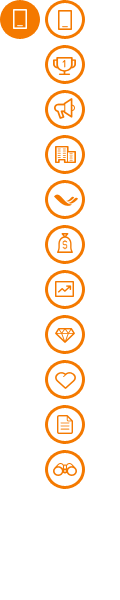
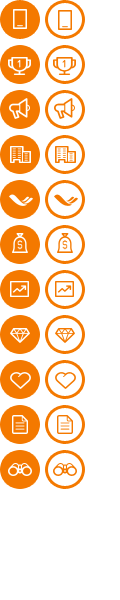
添加新里程碑 & 新闻页面

Changed region(s): [[0.0, 0.06, 0.35, 0.84]]

diff --git a/真旅网官网/news_141229.html b/真旅网官网/news_141229.html
@@ -1,0 +1,69 @@
+<!DOCTYPE html>
+<html lang="en">
+<head>
+    <meta charset="UTF-8">
+    <meta name="renderer" content="webkit|ie-comp|ie-stand">
+    <title>公司新闻</title>
+    <link type="text/css" rel="stylesheet" href="css/common.css">
+    <link type="text/css" rel="stylesheet" href="css/travelzen.css">
+    <script type="text/javascript" src="js/jquery-1.11.2.min.js"></script>
+    <script type="text/javascript" src="js/common.js"></script>
+
+    <!--[if lte IE 9]>
+    <script src="js/html5.js"></script>
+    <![endif]-->
+</head>
+<body>
+    <header class="mainHeader">
+        <div class="headerCon">
+            <a href="index.html" class="logo"></a>
+            <ul class="mainNavBar">
+                <li><a href="home.html">首页</a></li>
+                <li><a href="milestone.html">公司里程</a></li>
+                <li class="currentPage"><a href="news.html">公司新闻</a></li>
+                <li><a href="about.html">关于我们</a></li>
+                <li class="website">
+                    <a href="#">旗下网站</a>
+                    <div class="websiteList">
+                        <div class="shield"></div>
+                        <div id="b2b-website" style="margin-top:-15px;">
+                            <a href="http://www.tdxinfo.com" target="_blank">天地行采购平台</a>
+                        </div>
+                        <div id="b2g-website">
+                            <a href="http://vipcorp.travelzen.com" target="_blank">真旅网差旅平台</a>
+                        </div>
+                    </div>
+                </li>
+            </ul>
+        </div>
+    </header>
+    <!--body start-->
+    <div class="newsBanner">
+        <span class="newsFonts">公司新闻</span>
+    </div>
+    <section class="mainBody">
+        <div class="news-title-wrapper">
+            <div class="news-date">2014年12月29日</div>
+            <div class="titleCont">天地行手机客户端Android V1.0正式上线</div>
+        </div>
+        <div class="news-content">
+             <p>继2014年8月1日天地行手机客户端ios版本上线后，天地行APP android V1.0也于今日正式上线。用户安装后，可通过手机进行白屏建单，直接支付订单。同时，天地行APP也支持用户随时随地在线提交机票退改签申请。简单来说，通过此款手机客户端的应用，用户可轻松实现以下操作：手机电脑实时同步，随时随地处理订单，价格明细清晰全面，退改便捷高效服务，白屏建单一步到位。</p> 
+
+            <p>天地行一站式旅游服务平台已实现PC、APP、微信的“三网合一”，即三个平台信息同步、统一管理，为用户提供更便捷、高效的服务。</p> 
+        </div>
+        <div class="mailToBlock">如您是媒体记者, 并对媒体中心有任何询问, 欢迎您给我们电邮：
+            <a href="mailto:marketing@travelzen.com">marketing@travelzen.com</a>
+        </div>
+        <div class="bottomWrapper">
+            <a class="backNewsList" href="news.html" target="_self">
+                <i class="backArrow"></i>
+                <span>返回新闻首页</span>
+            </a>
+        </div>
+    </section>
+    <footer class="foot">
+        <div class="mainFoot">Copyright © 2015 真旅网 All Rights Reserved. 沪ICP备08004120号
+        </div>
+    </footer>
+</body>
+</html>

diff --git a/真旅网官网/milestone.html b/真旅网官网/milestone.html
@@ -42,7 +42,15 @@
     <section class="mainBody">
         <ul class="mileageList">
             <li class="current">
-                <i class="commonIcon currentIcon"></i>
+                <i class="commonIcon current houseIcon"></i>
+                <i class="leftLine"></i>
+                <label>
+                    <span class="leftTime">2015年02月</span>
+                    <span class="rightFonts">真旅网集团总部迁址上海市宝山区，深耕旅游产品在线分销</span>
+                </label>
+            </li>
+            <li>
+                <i class="commonIcon mobileIcon"></i>
                 <i class="leftLine"></i>
                 <label>
                     <span class="leftTime">2014年12月</span>

diff --git a/真旅网官网/news.html b/真旅网官网/news.html
@@ -46,7 +46,7 @@
             <li class="clearfix">
                 <label class="leftNewsFonts">
                     <i class="dialogueIcon"></i>
-                    <a href="#" target="_blank">天地行手机客户端Android V1.0正式上线</a>
+                    <a href="news_141229.html">天地行手机客户端Android V1.0正式上线</a>
                 </label>
                 <span class="rightTimeFonts">2014年12月29日</span>
             </li>

diff --git a/真旅网官网/about.html b/真旅网官网/about.html
@@ -93,7 +93,7 @@
                 </li>
                 <li>
                     <h5><i class="cooperate"></i>市场合作：</h5>
-                    <p style="padding-left:36px;">021-31087600 转 市场部</p>
+                    <p style="padding-left:36px;">021-31087500 转 市场部</p>
                     <p style="padding-left:36px;">marketing@travelzen.com</p>
                 </li>
             </ul>

diff --git a/真旅网官网/css/travelzen.css b/真旅网官网/css/travelzen.css
@@ -68,6 +68,9 @@
 .commonIcon.eyeIcon{
     background-position: -45px -450px;
 }
+.commonIcon.current.houseIcon {
+    background-position: 0 -135px;
+}
 .mileageList li{
     padding: 0 0 50px 50px;
     font-size: 16px;
